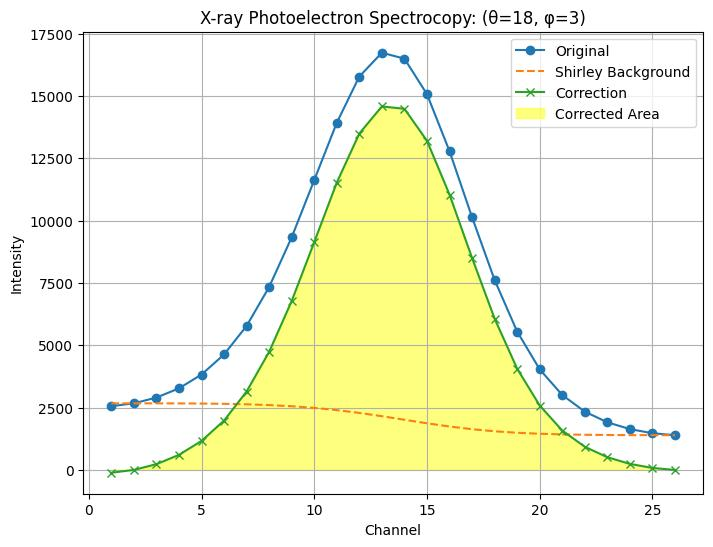
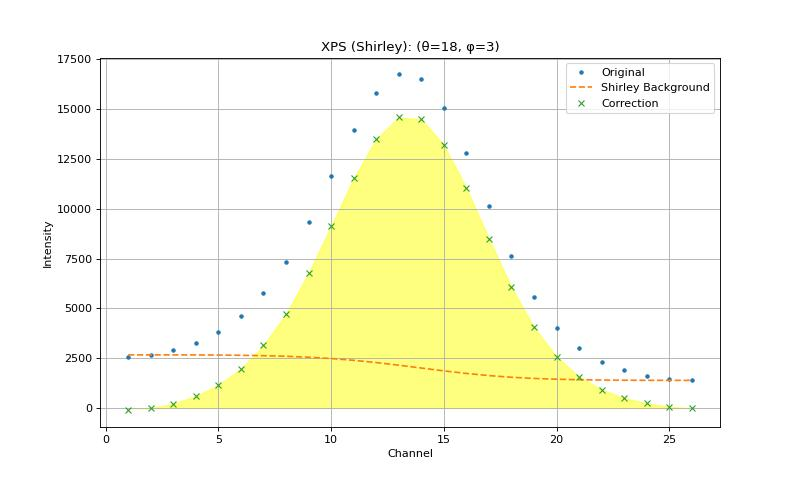
versão razoavel do read quanto a questão da plotagem

diff --git a/read_lnls.py b/read_lnls.py
@@ -1,3 +1,4 @@
+import time
 def carregar_config(arquivo):
     parametros = {}
     with open(arquivo, 'r') as f:
@@ -221,13 +222,43 @@ with open(output_file_xps, 'w') as log_file:
                     data_one_column.append(value)
                     log_file.write(f"{value} {contador_banda}\n")
 
-
 def process_file(file_name, output_file):
     """
-    Lê o arquivo de entrada e processa os dados aplicando o fundo Shirley.
+    Versão ROBUSTA (Modo Sport): Reutiliza a janela (Rápido) mas usa desenho padrão (Seguro).
+    Garante que os gráficos apareçam no WSL/XLaunch.
     """
 
+    # --- PREPARAÇÃO VISUAL (Cria a janela uma única vez) ---
+    fig_shirley = None
+    ax_shirley = None
+    line_orig = None
+    line_bg = None
+    line_corr = None
+    fill_area = None
+
+    if indice_de_plotagem == 1:
+        plt.ion()
+        # Cria figura e eixos
+        fig_shirley, ax_shirley = plt.subplots(figsize=(8, 6))
+
+        # IMPORTANTE: Removi 'animated=True'. Agora o matplotlib desenha normalmente.
+        line_orig, = ax_shirley.plot([], [], '', label='Original', markersize=3)
+        line_bg, = ax_shirley.plot([], [], '--', label='Shirley Background')
+        line_corr, = ax_shirley.plot([], [], 'x', label='Correction')
+
+        ax_shirley.set_xlabel('Channel')
+        ax_shirley.set_ylabel('Intensity')
+        ax_shirley.legend(loc='upper right')
+        ax_shirley.grid(True)
+
+        # Mostra a janela inicial vazia
+        plt.show(block=False)
+
+        save_dir = "XPS_Shirley"
+        os.makedirs(save_dir, exist_ok=True)
+
     def process_block(block, theta_values, phi_values):
+        # --- Definições Internas (Doniach, etc) ---
         def doniach_sunjic(x, amp, mean, gamma, beta):
             denom = (x - mean) ** 2 + gamma ** 2
             return (amp / np.pi) * (gamma / denom) * (1 + beta * (x - mean) / denom)
@@ -235,8 +266,9 @@ def process_file(file_name, output_file):
         def double_doniach(x, amp1, mean1, gamma1, beta1, amp2, mean2, gamma2, beta2):
             return (doniach_sunjic(x, amp1, mean1, gamma1, beta1) + doniach_sunjic(x, amp2, mean2, gamma2, beta2))
 
-        y_values = np.array([row[0] for row in block])  # Intensidades
-        x_values = np.array([row[1] for row in block])  # Índices/canais
+        # --- Processamento Matemático ---
+        y_values = np.array([row[0] for row in block])
+        x_values = np.array([row[1] for row in block])
 
         y_smoothed_raw = smooth(y_values, sigma=2.0)
         init_back = 1
@@ -245,113 +277,46 @@ def process_file(file_name, output_file):
         shirley_bg_smoothed = shirley_background(x_values, y_smoothed_raw, init_back, end_back)
         y_corrected_smoothed = y_smoothed_raw - shirley_bg_smoothed
 
-        # Forçar valores positivos (removendo possíveis artefatos negativos)
         positive_values = y_corrected_smoothed.copy()
         positive_values[positive_values < 0] = 0
 
-        fitted_double_doniach = fitted_double_gaussian = np.zeros_like(x_values)
-
-        # Ajuste Doniach-Sunjic apenas se indice_de_plotagem == 1
-
-        if indice_de_plotagem == 3:
-            initial_guess_doniach = [210000, 15, 1, 0.1, 10000, 31, 1, 0.1]
-            bounds_doniach = ([200000, 10, 0.5, 0, 5000, 30, 0.5, 0], [300000, 20, 8, 2, 50000, 32, 4, 2])
-            try:
-                popt_doniach, _ = curve_fit(double_doniach, x_values, positive_values, p0=initial_guess_doniach,
-                                            bounds=bounds_doniach)
-                amp1, mean1, gamma1, beta1, amp2, mean2, gamma2, beta2 = popt_doniach
-                doniach1 = doniach_sunjic(x_values, amp1, mean1, gamma1, beta1)
-                doniach2 = doniach_sunjic(x_values, amp2, mean2, gamma2, beta2)
-                fitted_double_doniach = doniach1 + doniach2
-            except Exception as e:
-                print(f"Erro no ajuste das Doniach-Sunjic: {e}")
-
-        # Ajuste Gaussianas apenas se indice_de_plotagem == 2
-        if indice_de_plotagem == 2:
-            def double_gaussian(x, amp1, mean1, std1, amp2, mean2, std2):
-                return (gaussian_fit(x, amp1, mean1, std1) + gaussian_fit(x, amp2, mean2, std2))
-
-            initial_guess = [5300, 9, 1,                 5500, 12.7, 1]#2  #1
-            bounds = ([5000, 8, 1,       3000, 12.5, 1],
-                      [100000, 10, 4,      6000, 14, 3])
-                       #A(i)P(i)La(i) #A(i2)P(i2)La(i2)---
-            try:
-                popt, _ = curve_fit(double_gaussian, x_values, positive_values, p0=initial_guess, bounds=bounds)
-                amp1, mean1, std1, amp2, mean2, std2 = popt
-                gaussian1 = gaussian_fit(x_values, amp1, mean1, std1)
-                gaussian2 = gaussian_fit(x_values, amp2, mean2, std2)
-                fitted_double_gaussian = gaussian1 + gaussian2
-            except Exception as e:
-                print(f"Erro no ajuste das gaussianas: {e}")
-
         total_area = trapezoid(positive_values, x_values)
-        print("Area: ", total_area)
+        print(f"Theta: {float(theta_values):.1f} | Phi: {float(phi_values):.1f} | Area: {total_area:.2f}")
 
-        if indice_de_plotagem == 0:
-            return list(zip(y_corrected_smoothed, x_values)), total_area
-
-        # Plotagem - Mantendo a estrutura original
-        if indice_de_plotagem == 3:
-            title = f"XPS with Doniach-Sunjic (θ={theta_values}, φ={phi_values})"
-            plt.figure(figsize=(10, 6))
-            plt.plot(x_values, y_smoothed_raw, label='Original', marker='o')
-            plt.plot(x_values, shirley_bg_smoothed, label='Shirley Background', linestyle='--')
-            plt.plot(x_values, y_corrected_smoothed, label='Corrected', marker='x')
-            plt.plot(x_values, doniach1, label='Doniach 1', linestyle='-.', color='blue')
-            plt.plot(x_values, doniach2, label='Doniach 2', linestyle=':', color='green')
-            plt.plot(x_values, fitted_double_doniach, label='Sum of Doniach-Sunjic functions', color='red')
-            plt.fill_between(x_values, positive_values, color='yellow', alpha=0.5, label='Corrected Area')
-            plt.xlabel('Channel')
-            plt.ylabel('Intensity')
-            plt.title(title)
-            plt.legend()
-            plt.grid(True)
-            plt.show()
-            plt.pause(shirley_tempo)
-            plt.close()
-
-        if indice_de_plotagem == 4:
-            title = f"XPS with Gaussians components (θ={theta_values}, φ={phi_values})"
-            plt.figure(figsize=(10, 6))
-            plt.plot(x_values, y_smoothed_raw, label='Original', marker='o')
-            plt.plot(x_values, shirley_bg_smoothed, label='Shirley Background', linestyle='--')
-            plt.plot(x_values, y_corrected_smoothed, label='Corrected', marker='x')
-            plt.plot(x_values, gaussian1, label='Gaussian 1', linestyle='-.', color='blue')
-            plt.plot(x_values, gaussian2, label='Gaussian 2', linestyle=':', color='green')
-            plt.plot(x_values, fitted_double_gaussian, label='Sum of the Gaussians', color='red')
-            plt.fill_between(x_values, positive_values, color='yellow', alpha=0.5, label='Corrected Area')
-            plt.xlabel('Channel')
-            plt.ylabel('Intensity')
-            plt.title(title)
-            plt.legend()
-            plt.grid(True)
-
-
+        # --- PLOTAGEM SEGURA (Set Data + Draw) ---
         if indice_de_plotagem == 1:
-            #plt.ion()
-            save_dir = "XPS_Shirley"
-            os.makedirs(save_dir, exist_ok=True)
-            title = f"X-ray Photoelectron Spectrocopy: (θ={theta_values}, φ={phi_values})"
-            plt.figure(figsize=(8, 6))
-            plt.plot(x_values, y_smoothed_raw, label='Original', marker='o')
-            plt.plot(x_values, shirley_bg_smoothed, label='Shirley Background', linestyle='--')
-            plt.plot(x_values, y_corrected_smoothed, label='Correction', marker='x')
-            plt.fill_between(x_values, positive_values, color='yellow', alpha=0.5, label='Corrected Area')
-            plt.xlabel('Channel')
-            plt.ylabel('Intensity')
-            plt.title(title)
-            plt.legend()
-            plt.grid(True)
-            #Nome do arquivo (usando os valores de θ e φ para identificação)
-            filename = f"XPS_Shirley_theta_{theta_values}_phi_{phi_values}.jpg"
-            filepath = os.path.join(save_dir, filename)
-            # Salvar a figura
-            plt.savefig(filepath, dpi=100, bbox_inches='tight')
-            plt.show()
+            nonlocal fill_area
 
+            # 1. Atualiza os dados (Rápido)
+            line_orig.set_data(x_values, y_smoothed_raw)
+            line_bg.set_data(x_values, shirley_bg_smoothed)
+            line_corr.set_data(x_values, y_corrected_smoothed)
+
+            # 2. Atualiza título
+            ax_shirley.set_title(f"XPS (Shirley): (θ={float(theta_values):.1f}, φ={float(phi_values):.1f})")
+
+            # 3. Atualiza preenchimento amarelo (Remove velho -> Cria novo)
+            if fill_area: fill_area.remove()
+            fill_area = ax_shirley.fill_between(x_values, positive_values, color='yellow', alpha=0.5)
+
+            # 4. Reajusta Escala (Zoom automático)
+            ax_shirley.relim()
+            ax_shirley.autoscale_view()
+
+            # 5. Desenha e Pausa (Obrigatório para aparecer no WSL)
+            plt.draw()
+
+            # O plt.pause faz duas coisas: atualiza a janela gráfica e espera o tempo
+            # Se shirley_tempo for muito baixo (ex: 0.001), será quase instantâneo.
+            # Se quiser ver com calma, aumente no config.txt
+            plt.pause(shirley_tempo)
+
+            # Salvar figura (opcional)
+            # filename = f"XPS_Shirley_theta_{theta_values}_phi_{phi_values}.jpg"
+            # fig_shirley.savefig(os.path.join(save_dir, filename))
 
         return list(zip(y_corrected_smoothed, x_values)), total_area
-
+    # --- LEITURA DO ARQUIVO (ORIGINAL RESTAURADA) ---
     with open(file_name, 'r') as file:
         data = file.readlines()
 
@@ -359,7 +324,7 @@ def process_file(file_name, output_file):
     block = []
     header = None
 
-    # Processa cada linha do arquivo
+    # Processa cada linha do arquivo (Lógica preservada)
     for line in data:
         columns = line.strip().split()
 
@@ -369,13 +334,15 @@ def process_file(file_name, output_file):
                 corrected_data.append((header, process_block(block, theta_values, phi_values)))
                 block = []
             header = line.strip()  # Salva o cabeçalho do bloco atual
+
         elif len(columns) == 2:
             # Adiciona valores ao bloco atual
             block.append([float(columns[0]), int(columns[1])])
 
         if len(columns) == 3:
-            theta_values = columns[0]  # Ajuste conforme necessário
-            phi_values = columns[1]   # Ajuste conforme necessário
+            # Captura Theta e Phi (mantidos como string aqui, convertidos dentro do process_block se precisar)
+            theta_values = columns[0]
+            phi_values = columns[1]
 
     if block:
         corrected_data.append((header, process_block(block, theta_values, phi_values)))
@@ -387,8 +354,6 @@ def process_file(file_name, output_file):
             out_file.write(f"{header} {total_area:.1f}\n")
             for y_corr, x in block_data[0]:
                 out_file.write(f"{y_corr:.2f} {x}\n")
-
-
 
 # Arquivos de entrada e saída
 file_name = "../saidaxps.txt"
